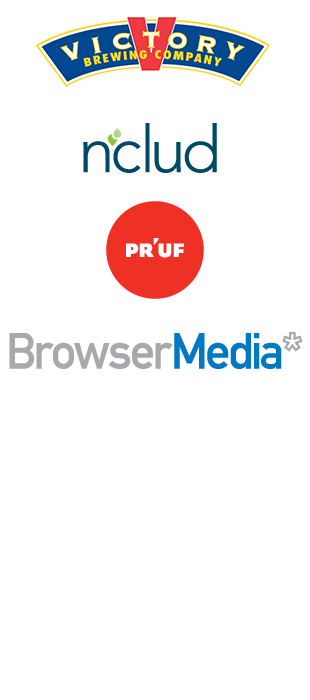
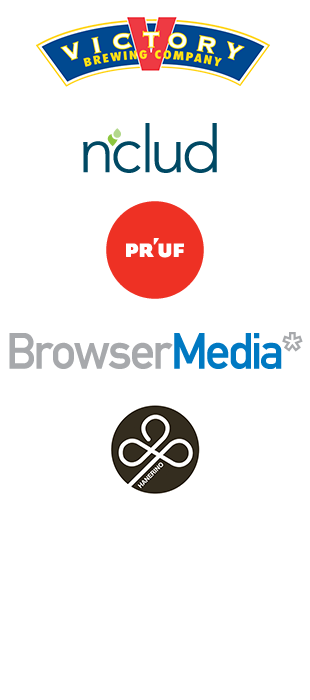
Add Hanerino as sponsor. THANK YOU JENNA AND PATRICK

Changed region(s): [[0.3484, 0.57, 0.6677, 0.72]]

diff --git a/index.html b/index.html
@@ -171,8 +171,8 @@ layout: nil
             <li class="n1"><a class="victory ir" href="http://victorybeer.com/" title="Victory Brewing Company" >Victory Brewing Company</a></li>
             <li class="n2"><a class="pruf ir" href="http://www.mypruf.com/" title="PR&rsquo;UF">PR&rsquo;UF</a></li>
             <li class="n3"><a class="browser-media ir" href="http://www.browsermedia.com/" title="BrowserMedia">BrowserMedia</a></li>
-            <li class="n4"><a class="nclud ir" href="http://nclud.com/" title="nclud" >nclud</a></li>
-            <li class="n5 open">Sponsorship available</li>
+            <li class="n4"><a class="hanerino ir" href="http://hanerino.com/" title="Hanerino">Hanerino</a></li>
+            <li class="n5"><a class="nclud ir" href="http://nclud.com/" title="nclud" >nclud</a></li>
             <li class="n6 open">Sponsorship available</li>
             <li class="n7 open">Sponsorship available</li>
           </ul>

diff --git a/css/style.css b/css/style.css
@@ -771,10 +771,11 @@ a:hover {
 
 #sponsorz .spnsr-list li a:hover { background-color: white; }
 
-#sponsorz .victory          { background-position: 0      0; }
-#sponsorz .nclud            { background-position: 0 -100px; }
-#sponsorz .pruf             { background-position: 0 -200px; }
-#sponsorz .browser-media    { background-position: 0 -300px; }
+#sponsorz .victory       { background-position: 0      0; }
+#sponsorz .nclud         { background-position: 0 -100px; }
+#sponsorz .pruf          { background-position: 0 -200px; }
+#sponsorz .browser-media { background-position: 0 -300px; }
+#sponsorz .hanerino      { background-position: 0 -400px; }
 
 
 #sponsorz .spnsr-list li.open {
